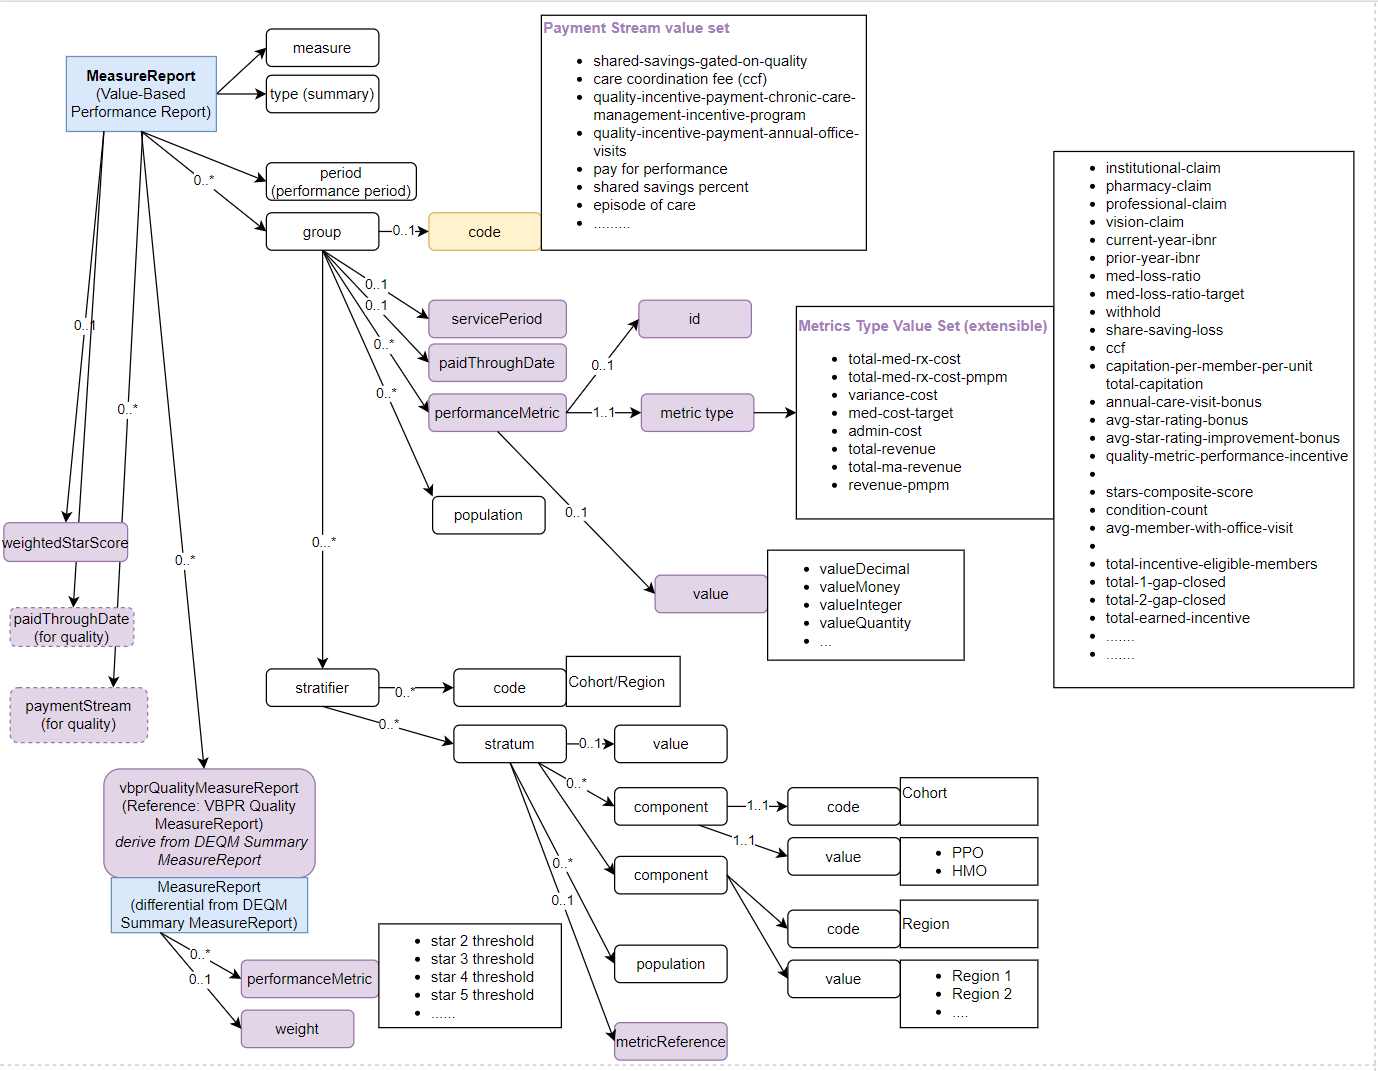
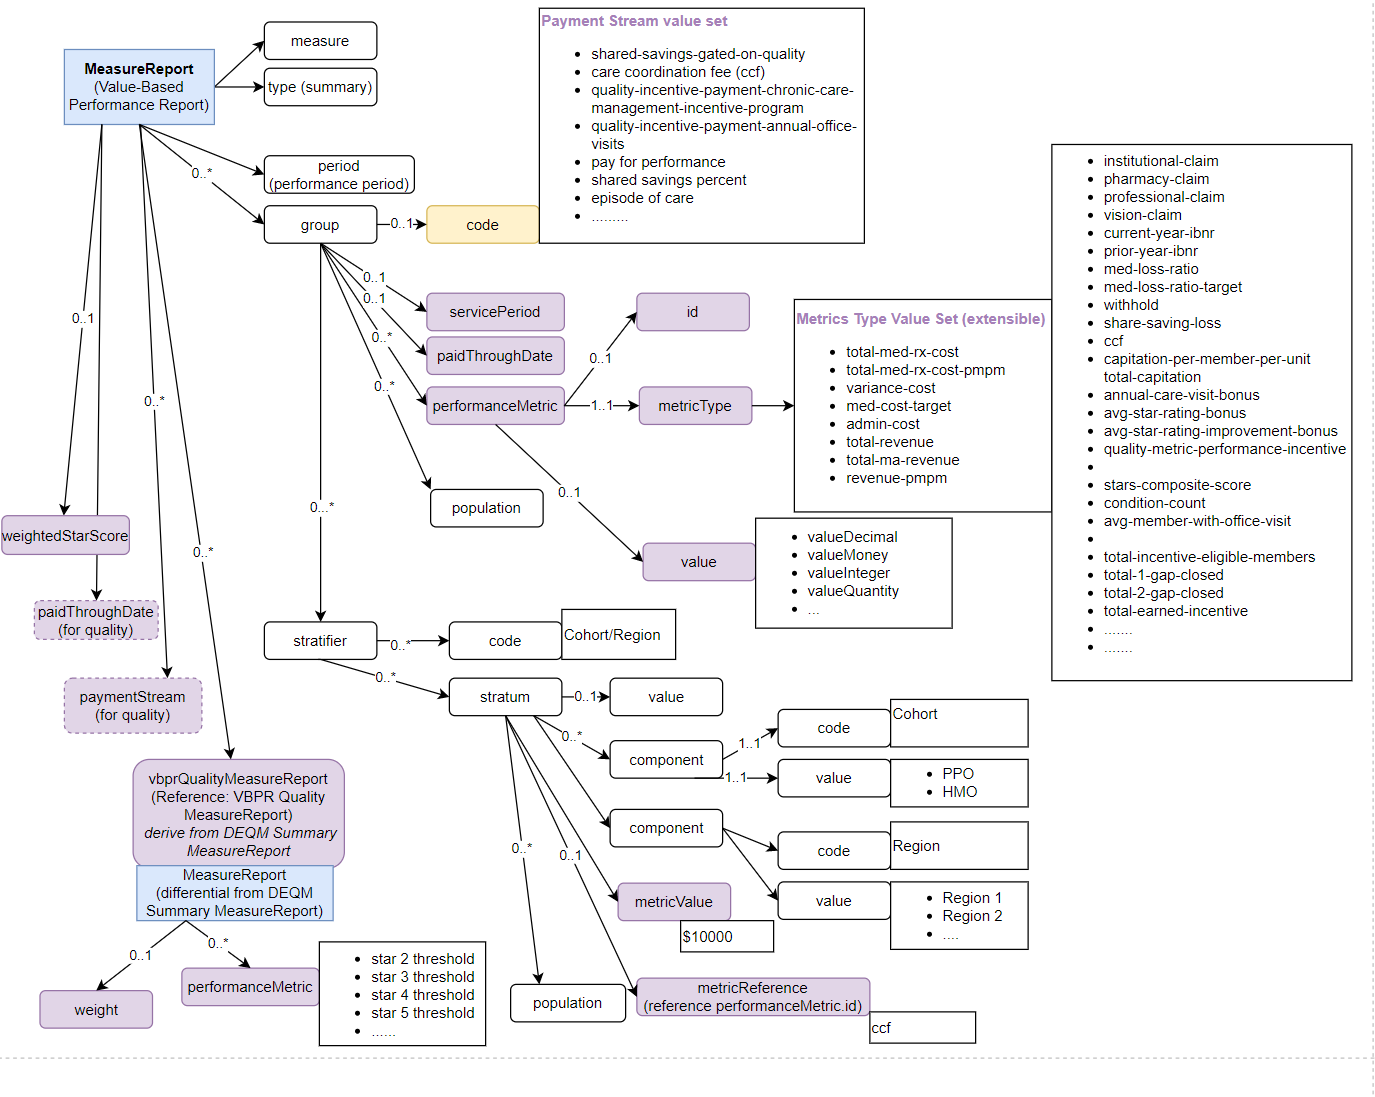
updated measureReport (stratum), removed contract

diff --git a/input/pagecontent/guidance.md b/input/pagecontent/guidance.md
@@ -34,7 +34,7 @@ Note: this is a draft for discussion purpose and is under developement
 
 Note: this is a draft for discussion purpose and is under developement
 
-{% include img-portrait.html img="vbpr-measurereport-measure-contract.png" caption = "Figure 2-2 Relationship of VBPR MeasureReport - Measure - Contract overview" %}
+{% include img-portrait.html img="vbpr-measurereport-measure.png" caption = "Figure 2-2 Relationship of VBPR MeasureReport - Measure overview" %}
 
 ### Must Support
 Certain elements in the profiles defined in this IG are marked as Must Support. This flag is used to indicate that the element plays a critical role in defining and sharing value-based performance reports, and implementations SHALL understand and process the element.

diff --git a/input/pagecontent/profiles.md b/input/pagecontent/profiles.md
@@ -8,7 +8,7 @@ List of profiles that define constrains on FHIR resources for systems conforming
 * [VBPR MeasureReport]
 * [VBPR Quality MeasureReport]
 * [VBC Measure]
-* [VBC Contract]
+<!-- * [VBC Contract] -->
 
 List of Extensions defined in this implementation guide.
 
